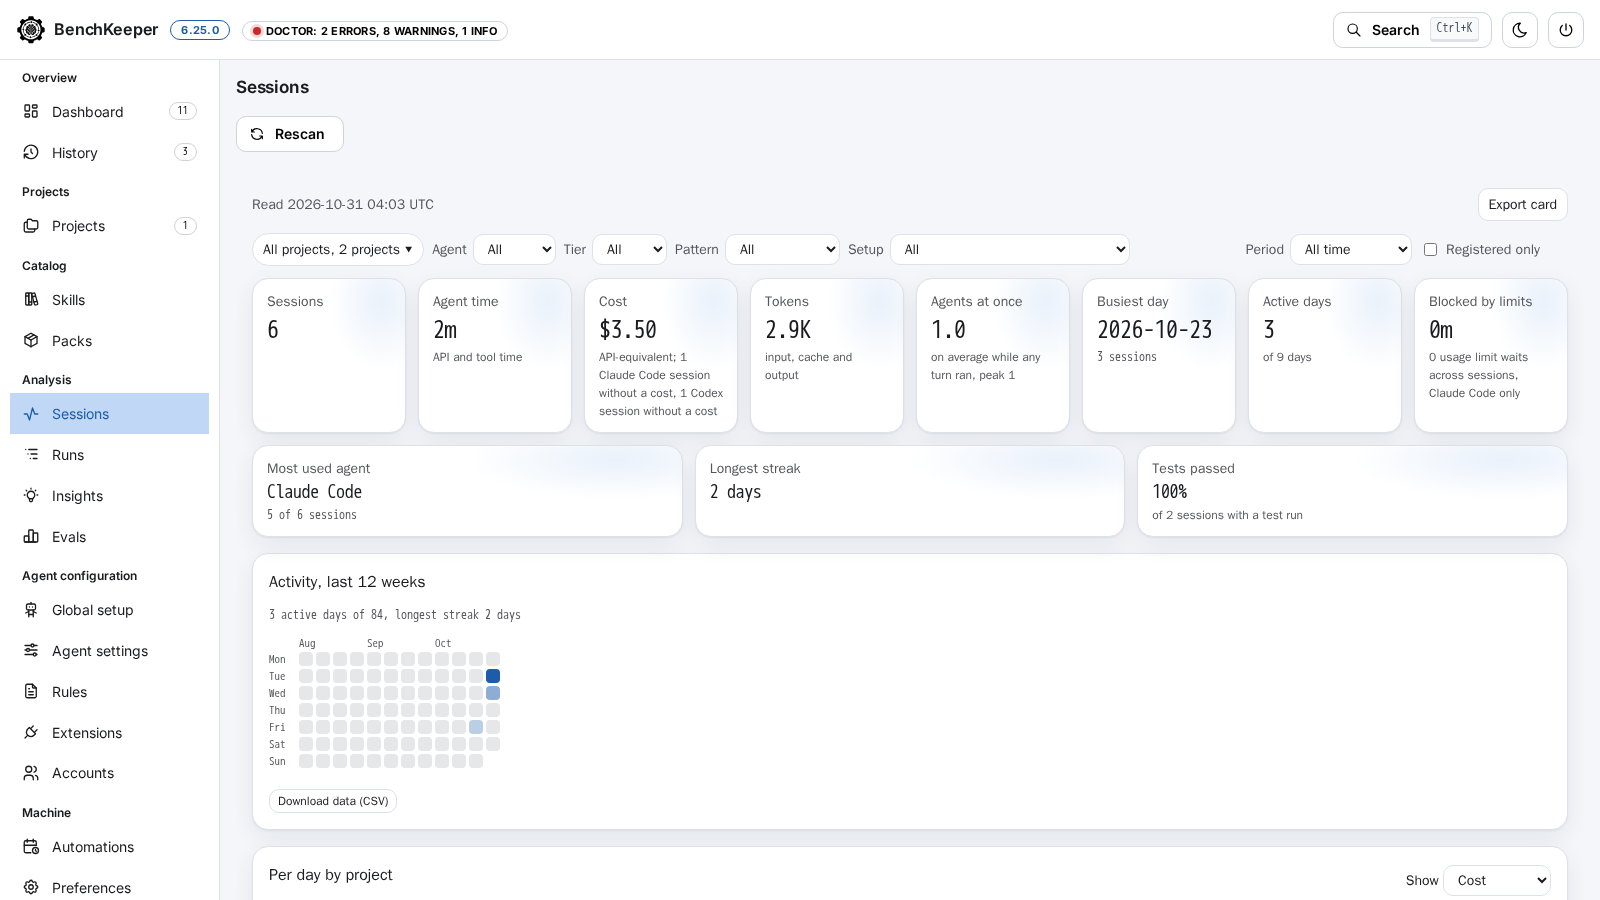
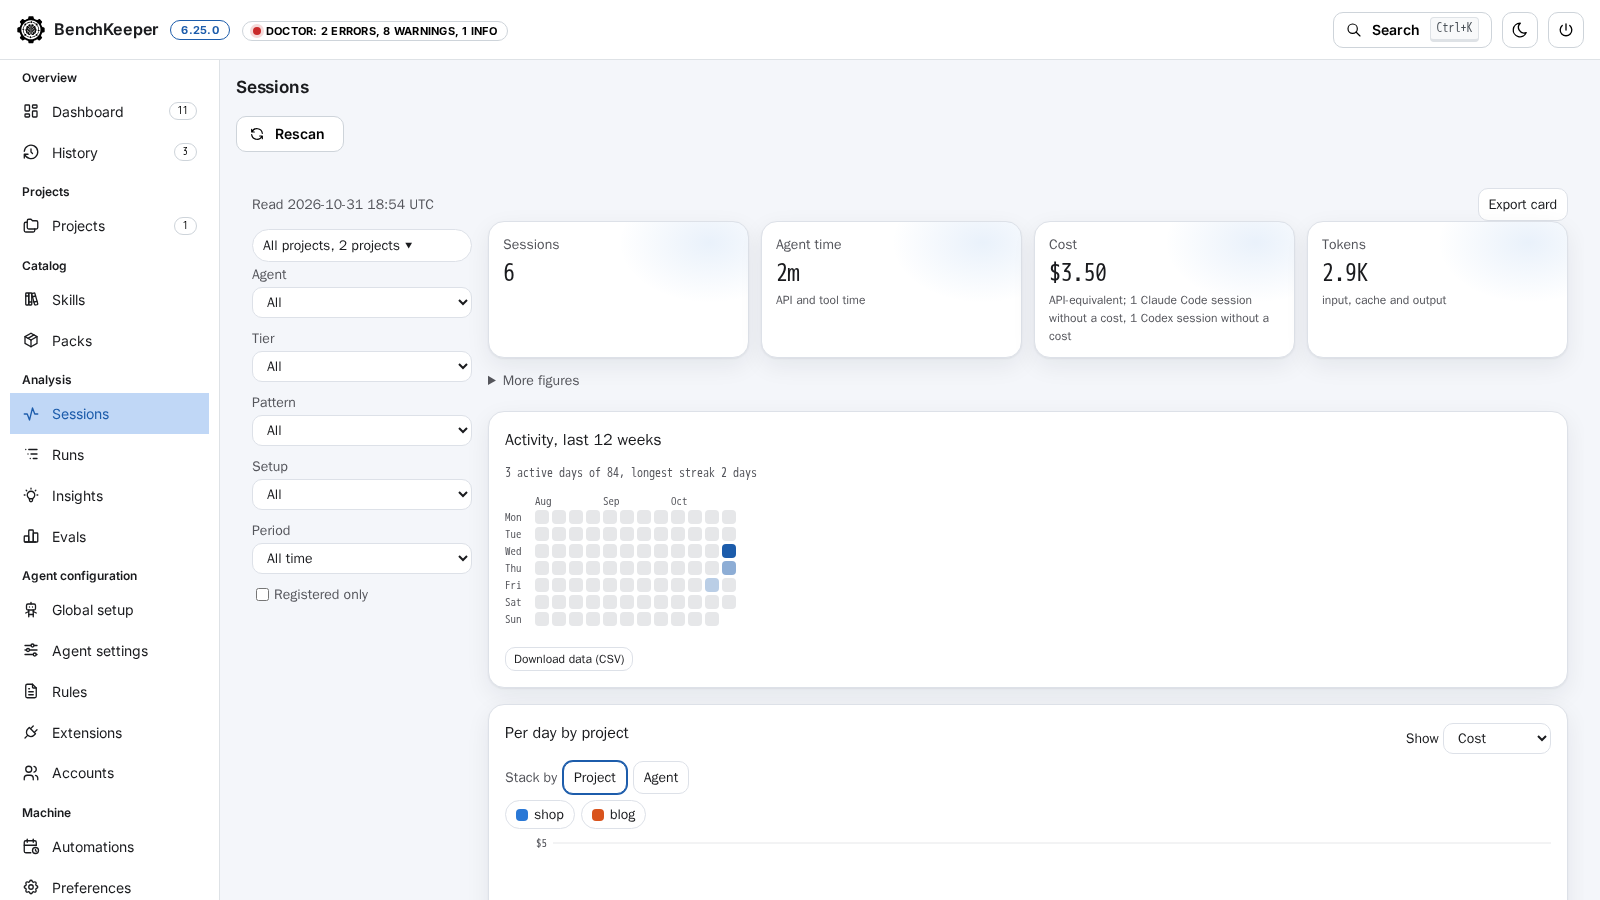
feat(app): move the Sessions filters into a column beside the figures (#902)
* feat(app): move the Sessions filters into a column beside the figures

In the app the filters stand in a column left of the figures, the project choice first. Four figures lead and the other seven fold under More figures. At phone width one Filters button opens the column; Escape, a click outside or the frame losing focus closes it.

* fix(app): close the Sessions filters with Escape from anywhere in the frame and return the focus after an outside click

diff --git a/app/README.md b/app/README.md
@@ -176,7 +176,7 @@ The sidebar groups the views: Overview (Dashboard, History), Projects (Projects)
 | Skills | the Catalog's library skills and your own (marked "yours") with filters (`skills list --library`), skill detail with eval results (`skills show`), pack builder (`packs save`, warns about overlapping descriptions). New skill, and Edit and Remove on one of yours, open its `SKILL.md` text and show the plan with its diff (`skills new`, `skills edit`, `skills delete`). A skill's state in a project is on the project's page |
 | Packs | the Catalog's library packs and own packs with the projects that use them (`packs list`, `packs show`), export, import (asks before it replaces an own pack, the old file goes to `backup/packs/`) and removal (off while a project uses the pack). A pack is defined once and switched on per project, on the project's Installs tab (`packs enable --project`) |
 | Global setup | only global things: detected agents; what is installed globally by part (plugins and packs, skills, rules, settings, machine tools, other), each part with its count, the items that need attention and its state per item behind Show items, and a link to the view that edits it (Extensions, Rules, Agent settings); a link to Accounts; the line "Per-project setup lives in each project" with a link to Projects (per-project controls are in a project's Installs tab); and the global plan for the chosen agents. A skills CLI install in a plan (here, in a project's plan and in setup review) runs first, on a click, in a scratch folder with its own `HOME` and `CODEX_HOME`, `CLAUDE_CONFIG_DIR` and `XDG_*` unset, so the plan shows the files it would write (mapped back to the folders those variables point to); links are copied as what they point to, npm uses a scratch cache and your `.npmrc` without credentials, git an empty config. It runs inside an OS sandbox (`srt`; bubblewrap on Linux and WSL2 and `sandbox-exec` on macOS confine writes only where `srt` cannot run) that stops a write outside the scratch folder and, with `srt`, limits the network to the registry, GitHub and your registry host. Where none starts (Windows has none) the preview is off and says why; "Rehearse anyway without a sandbox" runs it with the scratch `HOME` only. `doctor` names what to install. Three run at a time; a result is kept 10 minutes or until the app changes files, and an apply stops a rehearsal still running. Apply shows each change as it runs, with the command output, then the run report in place of the plan. Cancel skips the changes not started yet |
-| Sessions | the sessions board (see `sessions board`), scanned when the view opens, with progress and Rescan; each scan also rewrites `board.html`, which the status band's board button opens. Ponytail's ledger, when present, adds its figures and ledger-only rows (see `docs/setup.md`). The per-day chart shows all series of a day on hover, tap or with the arrow keys; a click on a project in the rail filters the whole page. In the app the project choice is one chip at the head of the filter line that opens the list (registered repositories first, one entry per repository with its worktrees folded in, with a search). When Ponytail's own board page (`board.html` next to its ledgers) exists, Open Ponytail's board opens that file in the browser; no other path is opened |
+| Sessions | the sessions board (see `sessions board`), scanned when the view opens, with progress and Rescan; each scan also rewrites `board.html`, which the status band's board button opens. Ponytail's ledger, when present, adds its figures and ledger-only rows (see `docs/setup.md`). The per-day chart shows all series of a day on hover, tap or with the arrow keys; a click on a project in the rail filters the whole page. In the app the filters stand in a column left of the figures, the project choice first as one chip that opens the list (registered repositories first, one entry per repository with its worktrees folded in, with a search); at phone width one Filters button opens the column. Four figures lead, the others fold under More figures. When Ponytail's own board page (`board.html` next to its ledgers) exists, Open Ponytail's board opens that file in the browser; no other path is opened |
 | Runs | read when the view opens and on Refresh, no timer: the orchestrated runs of the sessions scan in the registered projects and their worktrees, one row per run and per task with worktree, branch, sessions, cost and tokens; each project's last setup change from the ledger; and, when Orca is installed, its runs with task counts per state (one `run-list` call and one `task-list` call per run, at most 20 runs). It shows ids, states and counts only, never a prompt, spec, title or worker output |
 | Insights | the findings of `insights`: a line with their count by level and a "Do first" link to the most severe, what was checked, then the findings grouped by level (Errors, Warnings, Info; Info folded) and inside a level by area (Setup, Agent settings, Updates, Skills, Sessions), most severe first. An error is a card with its evidence and fix, where the finding has them, and the Dismiss and Snooze 7 days buttons; a warning or info finding is one line with its fix button, where it has one, and a More menu that holds Dismiss and Snooze 7 days, and its title opens the evidence and the fix hint. A doctor finding the setup can fix has the Dashboard's action (Plan fix, Review removal, Open settings or Plan project), which opens its plan with the diff and undo or the view that fixes it; a skill proposal's Plan opens the plan of that project for those skills, with its diff, apply and undo; the others show their fix text. Dismiss hides a finding until its evidence changes (the failed sessions of a project, the unused skills, a doctor finding's details; not the counts), Snooze 7 days until that date or a change, and "Dismissed and snoozed (n)" lists them with Show again. The choice is kept per finding in `insights-triage.json` in the `benchkeeper` config folder (readable only by you): finding ids with a digest of the evidence, and dates; no folder name, session id or skill name. The CLI does not read it. Above the findings, Adviser narrative: a summary of the findings shown with a suggested order, from one session of an installed agent (Claude Code or Codex; no tools, an empty folder). It starts only on a click, after a consent text shown once (kept in `insights-narrative.json` in the `benchkeeper` config folder); the exact input, with its size in characters, is on the page beside the button, and a run is refused when the findings changed since it was shown. The text is marked as model text, shows its cost as the agent recorded it (Claude Code API-equivalent USD, Codex tokens), is read-only (it cannot apply, dismiss or snooze), and is kept in `insights-narrative.json` in the `benchkeeper` cache folder (readable only by you) for that findings set; a changed set (a dismissal included) drops it. It does not run in CI |
 | History | runs by day; the run report: counts by status and changed lines, each change with its diff (line numbers, unified or split, created and deleted files unified), command and output, or session files, undo of a step or the whole run |
